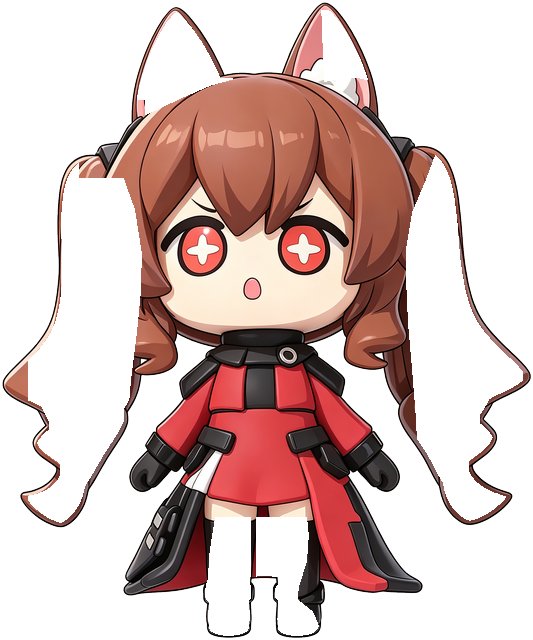
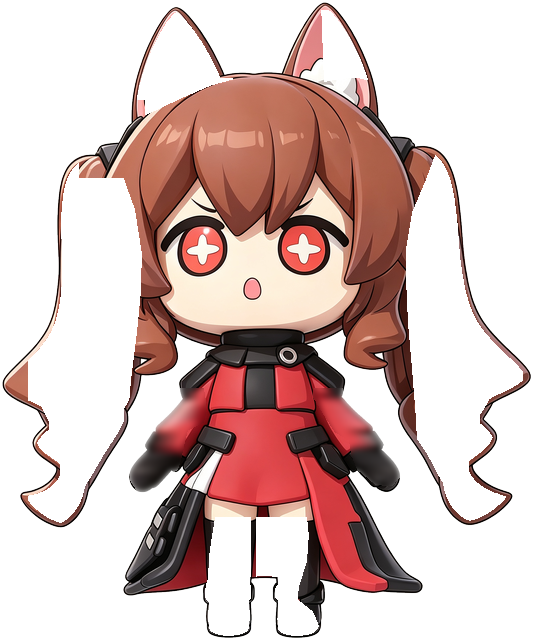
fix: 三项交互细节修复
1. 眨眼改为椭圆眼睑(沿眼睛轮廓闭合)+弧形睫毛线, 修正 manifest
   眼睛矩形的历史偏移, 不再是方框形睁闭眼
2. 害羞捂脸改为'视频手臂+纸偶自己手臂消失'的方案: arms.py 从参考图
   切出前臂+手套零件并给 base 挖孔修补, 害羞时纸偶手淡出、身体两侧
   不再残留原手; 贴片重新提取(含手臂带, 去掉与纸偶手并存的违和)
3. 开心帧序列: 去除脚下灰色阴影(底部条带低饱和灰剔除), 固定锚点
   配准消除帧间抖动, WebP 编码消除调色板爬行与透明度断层

Changed region(s): [[0.2402, 0.5938, 0.3902, 0.7812], [0.5704, 0.5938, 0.7505, 0.75]]

diff --git a/src/renderer.js b/src/renderer.js
@@ -35,7 +35,7 @@ for (const name of Object.keys(M.clips || {})) {
   for (let i = 0; i < M.clips[name].count; i++) {
     const im = new Image();
     im.onload = im.onerror = () => { clipLoaded++; maybeReady(); };
-    im.src = '../assets/' + name + '_' + String(i).padStart(2, '0') + '.png';
+    im.src = '../assets/' + name + '_' + String(i).padStart(2, '0') + '.' + (M.clips[name].ext || 'png');
     clipImgs[name].push(im);
   }
 }
@@ -202,6 +202,7 @@ function update(dt) {
       shyDy = (1 - shyE) * 14;
       shyLean = shyE * Math.sin(st * Math.PI * 2 * 0.45) * 1.1;
       droop = shyE;
+
     }
   } else {
     A.shy.t = 1e9;
@@ -252,42 +253,58 @@ function update(dt) {
 }
 
 // ---------- 绘制 ----------
-function drawPart(name, ang, dy = 0) {
+function drawPart(name, ang, dy = 0, alpha = 1) {
   const sp = M.sprites[name];
-  if (!ang && !dy) { octx.drawImage(imgs[name], sp.ox, sp.oy); return; }
-  const px = sp.ox + sp.pivot[0], py = sp.oy + sp.pivot[1];
-  octx.save();
-  octx.translate(0, dy);
-  octx.translate(px, py);
-  octx.rotate(ang * RAD);
-  octx.translate(-px, -py);
-  octx.drawImage(imgs[name], sp.ox, sp.oy);
-  octx.restore();
+  if (alpha <= 0) return;
+  if (alpha < 1) octx.globalAlpha = alpha;
+  if (!ang && !dy) {
+    octx.drawImage(imgs[name], sp.ox, sp.oy);
+  } else {
+    const px = sp.ox + sp.pivot[0], py = sp.oy + sp.pivot[1];
+    octx.save();
+    octx.translate(0, dy);
+    octx.translate(px, py);
+    octx.rotate(ang * RAD);
+    octx.translate(-px, -py);
+    octx.drawImage(imgs[name], sp.ox, sp.oy);
+    octx.restore();
+  }
+  if (alpha < 1) octx.globalAlpha = 1;
 }
 
 function drawEyelid(side) {
   const r = M.eyes[side].rect;
-  const x0 = r[0] - 3, y0 = r[1] - 4, w = r[2] - r[0] + 6, h = r[3] - r[1] + 8;
+  const cx = (r[0] + r[2]) / 2, cy = (r[1] + r[3]) / 2;
+  const rx = (r[2] - r[0]) / 2 + 3, ry = (r[3] - r[1]) / 2 + 4;
   const o = currentPose;
   const cap = 0.92 + 0.08 * (o.lid || 0); // 捂脸时完全闭合
-  const coverA = clamp01(o.blink) * cap;
-  const cov = Math.min(1, coverA) * h;
-  if (cov < 2) return;
-  const skin = SKIN[side];
+  const amt = clamp01(o.blink) * cap;
+  if (amt < 0.04) return;
+  const yTop = cy - ry, yClose = yTop + amt * ry * 2;
   octx.save();
+  // 沿眼睛轮廓裁出椭圆, 皮肤从上往下压, 不露出方框角
   octx.beginPath();
-  octx.moveTo(x0, y0);
-  octx.lineTo(x0 + w, y0);
-  octx.lineTo(x0 + w, y0 + cov - 6);
-  octx.quadraticCurveTo(x0 + w / 2, y0 + cov + 5, x0, y0 + cov - 6);
-  octx.closePath();
-  octx.fillStyle = col(skin);
+  octx.ellipse(cx, cy, rx, ry, 0, 0, Math.PI * 2);
+  octx.clip();
+  octx.beginPath();
+  octx.rect(cx - rx - 2, yTop - 6, rx * 2 + 4, yClose - yTop + 6);
+  octx.fillStyle = col(SKIN[side]);
   octx.filter = 'blur(2px)';
   octx.fill();
   octx.filter = 'none';
   octx.fill();
+  // 接近闭合时画弧形睫毛线(闭眼线)
+  if (amt > 0.45 && !(o.lid > 0.3)) { // 捂脸时贴片自带闭眼线, 不重复画
+    const la = clamp01((amt - 0.45) / 0.4);
+    octx.beginPath();
+    octx.moveTo(cx - rx + 3, yClose - 3);
+    octx.quadraticCurveTo(cx, yClose + 4, cx + rx - 3, yClose - 3);
+    octx.strokeStyle = col(LASH, 0.9 * la);
+    octx.lineWidth = 3.4;
+    octx.lineCap = 'round';
+    octx.stroke();
+  }
   octx.restore();
-
 }
 
 let currentPose = { blink: 0, squint: 0 };
@@ -358,6 +375,9 @@ function render(pose) {
     drawEyelid('R');
     drawFace(pose);
     drawShy(pose);
+    // 害羞时纸偶自己的手淡出(视频手臂在贴片里), 平时原位补回挖孔
+    drawPart('handL', 0, 0, 1 - (pose.shyE || 0));
+    drawPart('handR', 0, 0, 1 - (pose.shyE || 0));
   }
 
   // ---- 主画布：整体缩放绘制 ----
@@ -384,7 +404,7 @@ function buildHitMask() {
   const off = document.createElement('canvas');
   off.width = hitW; off.height = hitH;
   const octx = off.getContext('2d', { willReadFrequently: true });
-  const order = ['tailL', 'tailR', 'base', 'legL', 'legR', 'earL', 'earR'];
+  const order = ['tailL', 'tailR', 'base', 'legL', 'legR', 'earL', 'earR', 'handL', 'handR'];
   for (const k of order) {
     const sp = M.sprites[k];
     octx.drawImage(imgs[k], sp.ox, sp.oy);

diff --git a/assets/manifest.js b/assets/manifest.js
@@ -1,1 +1,1 @@
-window.PET_MANIFEST = {"canvas": {"w": 533, "h": 640}, "sprites": {"base": {"img": "base.png", "ox": 0, "oy": 0}, "earL": {"img": "earL.png", "ox": 131, "oy": 6, "pivot": [43, 103]}, "earR": {"img": "earR.png", "ox": 316, "oy": 5, "pivot": [60, 106]}, "tailL": {"img": "tailL.png", "ox": 23, "oy": 155, "pivot": [96, 6]}, "tailR": {"img": "tailR.png", "ox": 401, "oy": 149, "pivot": [22, 12]}, "legL": {"img": "legL.png", "ox": 202, "oy": 514, "pivot": [21, 6]}, "legR": {"img": "legR.png", "ox": 253, "oy": 514, "pivot": [30, 6]}, "shy": {"img": "shy.png", "ox": 160, "oy": 180, "pivot": [112, 110]}}, "feetY": 645, "eyes": {"L": {"rect": [171, 229, 245, 291]}, "R": {"rect": [278, 227, 357, 291]}}, "mouth": {"rect": [247, 289, 277, 325]}, "colors": {"skinL": [254, 239, 219], "skinR": [253, 236, 215], "skinM": [254, 239, 218], "mouthLine": [91, 62, 55], "lash": [40, 26, 23]}, "faces": {}, "faceRect": [167, 209, 387, 346], "clips": {"happy": {"count": 73, "fps": 12, "ox": 10, "oy": 3, "w": 514, "h": 635}}};
+window.PET_MANIFEST = {"canvas": {"w": 533, "h": 640}, "sprites": {"base": {"img": "base.png", "ox": 0, "oy": 0}, "earL": {"img": "earL.png", "ox": 131, "oy": 6, "pivot": [43, 103]}, "earR": {"img": "earR.png", "ox": 316, "oy": 5, "pivot": [60, 106]}, "tailL": {"img": "tailL.png", "ox": 23, "oy": 155, "pivot": [96, 6]}, "tailR": {"img": "tailR.png", "ox": 401, "oy": 149, "pivot": [22, 12]}, "legL": {"img": "legL.png", "ox": 202, "oy": 514, "pivot": [21, 6]}, "legR": {"img": "legR.png", "ox": 253, "oy": 514, "pivot": [30, 6]}, "shy": {"img": "shy.png", "ox": 134, "oy": 180, "pivot": [136, 91]}, "handL": {"img": "handL.png", "ox": 129, "oy": 388, "pivot": [48, 2]}, "handR": {"img": "handR.png", "ox": 309, "oy": 388, "pivot": [29, 2]}}, "feetY": 645, "eyes": {"L": {"rect": [165, 224, 240, 297]}, "R": {"rect": [288, 222, 360, 297]}}, "mouth": {"rect": [247, 289, 277, 325]}, "colors": {"skinL": [254, 239, 219], "skinR": [253, 236, 215], "skinM": [254, 239, 218], "mouthLine": [91, 62, 55], "lash": [40, 26, 23]}, "faces": {}, "faceRect": [167, 209, 387, 346], "clips": {"happy": {"count": 73, "fps": 12, "ext": "webp", "ox": 5, "oy": 18, "w": 522, "h": 622}}};

diff --git a/tools/arms.py b/tools/arms.py
@@ -1,0 +1,162 @@
+# 从参考图切割前臂+手套零件, 修改 base.png (挖孔+修补), 供害羞捂脸时"抬起自己的手"
+# 用法: python tools/arms.py [--debug]   (--debug 只输出掩码叠加图, 不写 assets)
+import json
+import sys
+
+import numpy as np
+from PIL import Image, ImageDraw, ImageFilter
+
+SRC_REF = r'C:\Users\29569\.zcode\cli\image-cache\sess_991e213d-0463-4dae-977e-f6a17e1737c0\image-2c4118a390afa01f5883dabbf889148d.png'
+
+# 与 process.py / shy_extract.py 完全一致的裁剪映射
+PAD = 8
+# bbox 在 __main__ 里重算
+
+# 前臂切割多边形(参考图原始坐标) —— 沿袖口上方切一刀, 顺着手臂轮廓包到手套尖
+POLY_L = [(533, 1346), (700, 1346), (712, 1408), (700, 1452), (648, 1478), (638, 1515),
+          (622, 1580), (612, 1612), (560, 1652), (540, 1684), (490, 1686), (462, 1648),
+          (452, 1570), (460, 1498), (505, 1430), (516, 1370)]
+POLY_R = [(1062, 1346), (1250, 1346), (1295, 1440), (1320, 1482), (1338, 1522), (1382, 1572),
+          (1372, 1622), (1330, 1668), (1285, 1662), (1225, 1610), (1205, 1560), (1198, 1512),
+          (1150, 1486), (1112, 1430)]
+# 肘部枢轴(切割线上沿, 资产坐标阶段换算)
+PIVOT_L = (616, 1348)
+PIVOT_R = (1156, 1348)
+
+
+def poly_mask(points, bbox, arr_shape, s, cx0, cy0):
+    H, W = arr_shape[:2]
+    x0, y0, x1, y1 = bbox
+    m = np.zeros((H, W), dtype=bool)
+    sub = Image.new('1', (x1 - x0, y1 - y0), 0)
+    d = ImageDraw.Draw(sub)
+    pts = [((px - cx0) * s - x0, (py - cy0) * s - y0) for px, py in points]
+    d.polygon(pts, fill=1)
+    m[y0:y1, x0:x1] = np.array(sub, dtype=bool)
+    return m
+
+
+def main():
+    debug = '--debug' in sys.argv
+    ref = Image.open(SRC_REF).convert('RGB')
+    ref_arr = np.array(ref)
+    ref_arr[2090:, 1400:, :] = 255
+
+    # 复现 process.py 的 bbox (与 shy_extract.py 相同的泛洪)
+    from collections import deque
+    H0, W0 = ref_arr.shape[:2]
+    near_white = (ref_arr[:, :, 0] >= 238) & (ref_arr[:, :, 1] >= 238) & (ref_arr[:, :, 2] >= 238)
+    visited = np.zeros((H0, W0), dtype=bool)
+    dq = deque()
+    for x in range(W0):
+        for y in (0, H0 - 1):
+            if near_white[y, x] and not visited[y, x]:
+                visited[y, x] = True; dq.append((y, x))
+    for y in range(H0):
+        for x in (0, W0 - 1):
+            if near_white[y, x] and not visited[y, x]:
+                visited[y, x] = True; dq.append((y, x))
+    while dq:
+        y, x = dq.popleft()
+        for dy, dx in ((1, 0), (-1, 0), (0, 1), (0, -1)):
+            ny, nx = y + dy, x + dx
+            if 0 <= ny < H0 and 0 <= nx < W0 and not visited[ny, nx] and near_white[ny, nx]:
+                visited[ny, nx] = True; dq.append((ny, nx))
+    alpha = np.where(visited, 0, 255).astype(np.uint8)
+    mask_ref = alpha > 127
+    ys, xs = np.where(mask_ref)
+    bx0, by0, bx1, by1 = xs.min(), ys.min(), xs.max(), ys.max()
+    cx0, cy0 = bx0 - PAD, by0 - PAD
+    s = 640 / (by1 + PAD - cy0)
+
+    # 工作坐标里的手臂掩码 = 多边形 ∩ 角色掩码
+    CW, CH = 533, 640
+    base_im = Image.open('assets/base.png').convert('RGBA')
+    base = np.array(base_im)
+    char = base[:, :, 3] > 127
+
+    def work_poly(pts):
+        return [((px - cx0) * s, (py - cy0) * s) for px, py in pts]
+
+    def mask_of(poly):
+        img = Image.new('L', (CW, CH), 0)
+        ImageDraw.Draw(img).polygon(work_poly(poly), fill=255)
+        return np.array(img) > 127
+
+    mL = mask_of(POLY_L) & char
+    mR = mask_of(POLY_R) & char
+
+    # 调试图: 掩码边缘叠在 base 上
+    if debug:
+        dbg = base_im.copy()
+        for m, col in ((mL, (0, 255, 0)), (mR, (255, 0, 255))):
+            edge = np.array(Image.fromarray((m * 255).astype(np.uint8)).filter(ImageFilter.MaxFilter(3)))
+            tint = np.zeros_like(np.array(dbg))
+            tint[:, :, 0], tint[:, :, 1], tint[:, :, 2], tint[:, :, 3] = col[0], col[1], col[2], edge
+            dbg.alpha_composite(Image.fromarray(tint))
+        dbg.crop((100, 350, 460, 560)).resize((720, 420), Image.NEAREST).convert('RGB').save('tools/dbg_arms_mask.png')
+        print('debug only')
+        return
+
+    # ---- 正式: 切 sprite -> base 挖孔(不透明, 用邻域插值修补) ----
+    def erode(m, k):
+        return np.array(Image.fromarray((m * 255).astype(np.uint8)).filter(ImageFilter.MinFilter(k * 2 + 1))) > 127
+
+    def dilate(m, k):
+        return np.array(Image.fromarray((m * 255).astype(np.uint8)).filter(ImageFilter.MaxFilter(k * 2 + 1))) > 127
+
+    man = json.load(open('assets/manifest.json', encoding='utf8'))
+    for name, m, poly, piv in (('handL', mL, POLY_L, PIVOT_L), ('handR', mR, POLY_R, PIVOT_R)):
+        md = dilate(m, 1)  # 外扩 1px 盖住切缝
+        ys, xs = np.where(md)
+        ox, oy = int(xs.min()), int(ys.min())
+        w, h = int(xs.max()) - ox + 1, int(ys.max()) - oy + 1
+        rgba = base.copy()
+        rgba[:, :, 3] = np.where(md, base[:, :, 3], 0)
+        sub = rgba[oy:oy + h, ox:ox + w]
+        Image.fromarray(sub).save(f'assets/{name}.png')
+        pv = ((piv[0] - cx0) * s - ox, (piv[1] - cy0) * s - oy)
+        man.setdefault('sprites', {})[name] = {
+            'img': f'{name}.png', 'ox': ox, 'oy': oy,
+            'pivot': [round(pv[0]), round(pv[1])],
+        }
+        print(f'{name}: ox={ox} oy={oy} size={w}x{h} pivot=({pv[0]:.0f},{pv[1]:.0f})')
+
+    # base 挖孔 + 修补: 孔内保留不透明, RGB 用左右最近非孔像素水平插值, 再局部模糊
+    holeL = erode(mL, 3)
+    holeR = erode(mR, 3)
+    hole = holeL | holeR
+    rgb = base[:, :, :3].astype(np.float32)
+    hole_px = hole & (base[:, :, 3] > 127)
+    for y in range(CH):
+        row = hole_px[y]
+        if not row.any():
+            continue
+        xs_h = np.where(row)[0]
+        runs = np.split(xs_h, np.where(np.diff(xs_h) > 1)[0] + 1)
+        for run in runs:
+            a, b = run[0], run[-1]
+            la = max(a - 2, 0)
+            rb = min(b + 2, CW - 1)
+            ca = rgb[y, la]
+            cb = rgb[y, rb]
+            t = np.linspace(0, 1, b - a + 1)[:, None]
+            rgb[y, a:b + 1] = ca * (1 - t) + cb * t
+    # 局部模糊: 对孔区域做一次 3px 高斯
+    blur = np.array(Image.fromarray(rgb.astype(np.uint8)).filter(ImageFilter.GaussianBlur(3))).astype(np.float32)
+    grow = dilate(hole_px, 4)
+    rgb[grow] = blur[grow]
+    base[:, :, :3] = rgb.astype(np.uint8)
+    Image.fromarray(base).save('assets/base.png')
+    print('base.png 挖孔+修补完成')
+
+    json.dump(man, open('assets/manifest.json', 'w', encoding='utf8'), ensure_ascii=False, indent=1)
+    with open('assets/manifest.js', 'w', encoding='utf8') as f:
+        f.write('window.PET_MANIFEST = ')
+        json.dump(man, f, ensure_ascii=False)
+        f.write(';\n')
+    print('manifest patched')
+
+
+if __name__ == '__main__':
+    main()

diff --git a/tools/happy_pack.py b/tools/happy_pack.py
@@ -1,0 +1,91 @@
+# 开心(视频帧序列)动作 - 阶段2: 去阴影 + 固定锚点配准 + 共享调色板打包
+# 前置: ffmpeg 抽帧到 tools/tmp_happy/f*.png;  阶段1(tools/happy_frames.py)生成 a*.png 去底图
+# 用法: python tools/happy_pack.py [目标高度, 默认600]
+import glob
+import json
+import os
+import sys
+
+import numpy as np
+from PIL import Image, ImageFilter
+
+sys.path.insert(0, 'tools')
+from happy_frames import largest_component
+
+ANCHOR = (266, 636)   # 脚底中心锚点(资产坐标), 与纸偶脚线一致
+TARGET_H = float(sys.argv[1]) if len(sys.argv) > 1 else 600
+SHADOW = dict(sat=20, lo=100, hi=215, band=0.13)  # 阴影判定: 低饱和灰 & 底部条带
+
+files = sorted(glob.glob('tools/tmp_happy/f*.png'))
+assert files, 'no frames (run ffmpeg first)'
+
+# ---- 1. 去底 + 去阴影 ----
+frames = []
+heights = []
+for f in files:
+    arr = np.array(Image.open(f).convert('RGB'))
+    alpha = largest_component(np.array(Image.open(f.replace('f', 'a', 1)).convert('RGBA'))[:, :, 3], 500)
+    m = alpha > 127
+    ys, xs = np.where(m)
+    y0, y1 = ys.min(), ys.max()
+    band_top = int(y1 - (y1 - y0) * SHADOW['band'])
+    r = arr.astype(np.int32)
+    lum = (r[:, :, 0] * 299 + r[:, :, 1] * 587 + r[:, :, 2] * 114) // 1000
+    sat = arr.max(axis=2).astype(np.int32) - arr.min(axis=2).astype(np.int32)
+    shadow = (sat <= SHADOW['sat']) & (lum >= SHADOW['lo']) & (lum <= SHADOW['hi'])
+    shadow[:band_top, :] = False
+    alpha[shadow] = 0
+    a2 = largest_component(alpha, 10 ** 9)  # 只留主连通域: 次级组件全是灰尘/碎屑
+    ys, xs = np.where(a2 > 127)
+    frames.append((arr, a2, xs.min(), ys.min(), xs.max(), ys.max()))
+    heights.append(ys.max() - ys.min())
+
+# ---- 2. 固定锚点配准(全帧同一偏移, 消除逐帧锚点跳动) ----
+s = TARGET_H / float(np.median(heights))
+bots, cxs = [], []
+for (arr, a2, x0, y0, x1, y1) in frames:
+    bots.append(y1)
+    cxs.append((x0 + x1) / 2)
+AX, AY = float(np.median(cxs)), float(np.median(bots))   # 视频原始坐标的锚点(帧中位)
+ox = int(round(ANCHOR[0] - AX * s))
+oy = int(round(ANCHOR[1] - AY * s))
+print(f'fixed anchor: video({AX:.0f},{AY:.0f}) *{s:.4f} -> offset({ox},{oy})')
+
+registered = []
+for (arr, a2, x0, y0, x1, y1) in frames:
+    im = Image.fromarray(np.dstack([arr, a2]))
+    im_s = im.resize((round(im.size[0] * s), round(im.size[1] * s)), Image.LANCZOS)
+    canvas = Image.new('RGBA', (533, 640), (0, 0, 0, 0))
+    canvas.alpha_composite(im_s, (ox, oy))
+    registered.append(canvas)
+# 视频自身的运动(迈步/起伏/向前)都在像素内容里, 全帧静态摆放不产生额外抖动
+
+u_x0, u_y0, u_x1, u_y1 = 533, 640, 0, 0
+for cv in registered:
+    a = np.array(cv)[:, :, 3]
+    ys, xs = np.where(a > 8)
+    u_x0, u_y0 = min(u_x0, int(xs.min())), min(u_y0, int(ys.min()))
+    u_x1, u_y1 = max(u_x1, int(xs.max())), max(u_y1, int(ys.max()))
+print('union rect:', u_x0, u_y0, u_x1, u_y1)
+
+# ---- 3. WebP 有损 + alpha: 体积小, 无调色板爬行, alpha 平滑 ----
+total = 0
+for i, cv in enumerate(registered):
+    a = cv.getchannel('A').filter(ImageFilter.GaussianBlur(0.6))
+    cv.putalpha(a)
+    out = f'assets/happy_{i:02d}.webp'
+    cv.save(out, quality=88, method=6)
+    total += os.path.getsize(out)
+print(f'{len(registered)} frames, total {total / 1e6:.2f} MB')
+
+man = json.load(open('assets/manifest.json', encoding='utf8'))
+man.setdefault('clips', {})['happy'] = {
+    'count': len(registered), 'fps': 12, 'ext': 'webp',
+    'ox': u_x0, 'oy': u_y0, 'w': u_x1 - u_x0 + 1, 'h': u_y1 - u_y0 + 1,
+}
+json.dump(man, open('assets/manifest.json', 'w', encoding='utf8'), ensure_ascii=False, indent=1)
+with open('assets/manifest.js', 'w', encoding='utf8') as f:
+    f.write('window.PET_MANIFEST = ')
+    json.dump(man, f, ensure_ascii=False)
+    f.write(';\n')
+print('manifest patched')
